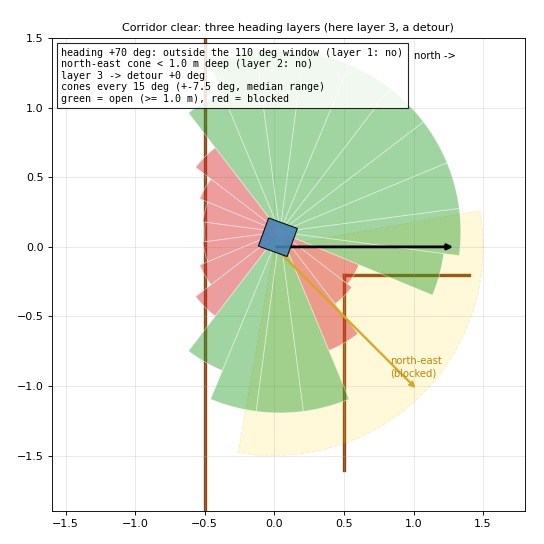
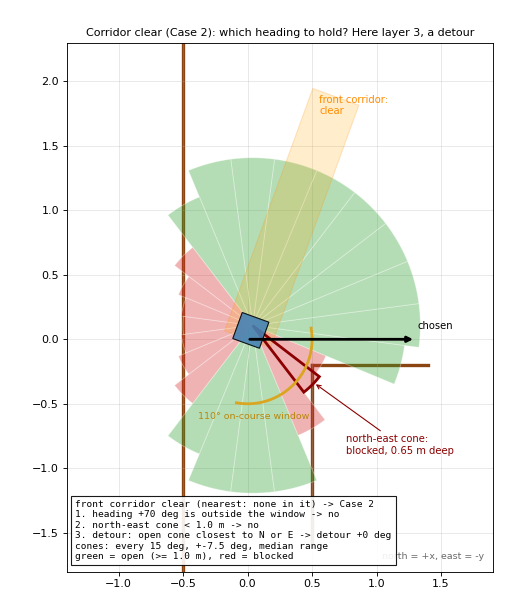
final-cleaning up...

diff --git a/rb2301/src/rb2301_fp/sim_runs/make_sim_runs.py b/rb2301/src/rb2301_fp/sim_runs/make_sim_runs.py
@@ -1,0 +1,153 @@
+"""Run randomised final-project courses in pocket_test and save each run as a GIF named with its result.
+
+Courses where the robot spawns on top of an obstacle are rejected (not counted). Results:
+    COMPLETE   reached the finish line
+    TIMEOUT    still driving when pocket_test's time limit ran out
+    COLLISION  touched an obstacle (the run stops there)
+
+Usage (from rb2301/src/rb2301_fp):
+    python3 sim_runs/make_sim_runs.py               # 20 runs, hand-swung boards, seeds from 0
+    python3 sim_runs/make_sim_runs.py --runs 5 --first-seed 100 --motorised
+"""
+import argparse
+import math
+import os
+import sys
+
+import matplotlib
+matplotlib.use("Agg")
+import matplotlib.pyplot as plt
+from matplotlib.animation import FuncAnimation, PillowWriter
+from matplotlib.collections import LineCollection
+from matplotlib.patches import Polygon
+
+HERE = os.path.dirname(os.path.realpath(__file__))
+sys.path.insert(0, os.path.dirname(HERE))
+import pocket_test as pt
+
+FPS = 15
+EVERY = 6          # draw every 6th control step (0.6 s of robot time per frame)
+DPI = 60
+
+
+def result_of(frames):
+    last = frames[-1]
+    if last.get("spawn_overlap"):
+        return "SPAWN_OVERLAP"
+    if last.get("finished"):
+        return "COMPLETE"
+    if last["collision"]:
+        return "COLLISION"
+    return "TIMEOUT"
+
+
+def state_text(f):
+    c = f["corridor"]
+    if c.get("board_phase"):
+        return "BOARDS " + c["board_phase"].split(" (")[0]
+    if c.get("gap_phase"):
+        return "GATE " + c["gap_phase"]
+    if c.get("locked"):
+        return "obstacle: turn " + ("left" if f["w"] > 0 else "right") + (" BACKING UP" if c.get("backing") else "")
+    return "clear: " + c["goal"] if c.get("goal") else "clear"
+
+
+def save_gif(path, scn, frames, title, result):
+    picks = list(range(0, len(frames), EVERY))
+    if picks[-1] != len(frames) - 1:
+        picks.append(len(frames) - 1)
+    picks += [len(frames) - 1] * (2 * FPS)  # hold the result for 2 s
+
+    fig, ax = plt.subplots(figsize=(6.4, 6.4), dpi=DPI)
+    fig.subplots_adjust(left=0.08, right=0.98, top=0.93, bottom=0.06)
+    pt.draw_world(ax, scn, title)
+    xs, ys = [f["x"] for f in frames], [f["y"] for f in frames]
+    allx = [p[0] for seg in scn["segments"] for p in seg] + xs
+    ally = [p[1] for seg in scn["segments"] for p in seg] + ys
+    cx, cy = (min(allx) + max(allx)) / 2, (min(ally) + max(ally)) / 2
+    half = max(max(allx) - min(allx), max(ally) - min(ally)) / 2 + 0.3
+    ax.set_xlim(cx - half, cx + half)
+    ax.set_ylim(cy - half, cy + half)
+
+    path_line, = ax.plot([], [], "b-", lw=1)
+    scan = ax.scatter([], [], s=2, c="gray")
+    corridor = Polygon(pt.corridor_polygon(0, 0, 0), closed=True, fc="orange", ec="darkorange", alpha=0.2)
+    body = Polygon(pt.footprint(0, 0, 0), closed=True, fc="steelblue", ec="k", alpha=0.9)
+    ax.add_patch(corridor)
+    ax.add_patch(body)
+    moving = LineCollection([], colors="purple", linewidths=3)
+    ax.add_collection(moving)
+    text = ax.text(0.02, 0.98, "", transform=ax.transAxes, va="top", family="monospace", fontsize=9,
+                   bbox=dict(fc="white", alpha=0.85))
+    colour = {"COMPLETE": "green", "TIMEOUT": "darkorange", "COLLISION": "red"}[result]
+
+    def draw(k):
+        i = picks[k]
+        f = frames[i]
+        path_line.set_data(xs[: i + 1], ys[: i + 1])
+        scan.set_offsets(f["world_pts"])
+        corridor.set_xy(pt.corridor_polygon(f["x"], f["y"], f["h"]))
+        body.set_xy(pt.footprint(f["x"], f["y"], f["h"]))
+        moving.set_segments([[p, q] for p, q in f["moving"]])
+        end = i == len(frames) - 1
+        text.set_text(f"t={f['t']:5.1f}s  v={f['v']:+.2f} m/s\n" + (f"RESULT: {result}" if end else state_text(f)))
+        text.get_bbox_patch().set_edgecolor(colour if end else "black")
+        text.get_bbox_patch().set_linewidth(2.5 if end else 1.0)
+        return []
+
+    FuncAnimation(fig, draw, frames=len(picks), blit=False).save(path, writer=PillowWriter(fps=FPS))
+    plt.close(fig)
+
+
+def main():
+    parser = argparse.ArgumentParser(description=__doc__, formatter_class=argparse.RawDescriptionHelpFormatter)
+    parser.add_argument("--runs", type=int, default=20, help="Valid runs to make (default 20)")
+    parser.add_argument("--first-seed", type=int, default=0, help="First course seed to try (default 0)")
+    parser.add_argument("--motorised", action="store_true", help="Full-swing motorised boards instead of hand-swung ones")
+    args = parser.parse_args()
+    pt.SWING = not args.motorised
+    boards = "motorised boards" if args.motorised else "hand-swung boards"
+
+    rows, rejected, seed = [], [], args.first_seed
+    time_limit = pt.randomised_fp_scenario(args.first_seed).get("max_time", pt.MAX_TIME)
+    while len(rows) < args.runs:
+        scn = pt.randomised_fp_scenario(seed)
+        frames = pt.simulate(scn)
+        result = result_of(frames)
+        if result == "SPAWN_OVERLAP":
+            rejected.append(seed)
+            print(f"seed {seed}: spawned on top of an obstacle, rejected", flush=True)
+            seed += 1
+            continue
+        n = len(rows) + 1
+        name = f"run_{n:02d}_seed_{seed}_{result}.gif"
+        travelled = sum(math.hypot(b["x"] - a["x"], b["y"] - a["y"]) for a, b in zip(frames, frames[1:]))
+        gate = next((f["t"] for f in frames if f["corridor"].get("gate_passed") or f["corridor"].get("board_phase")), None)
+        save_gif(os.path.join(HERE, name), scn, frames, f"Run {n} (seed {seed}, {boards})", result)
+        rows.append((n, seed, result, frames[-1]["t"], travelled, gate, name))
+        print(f"run {n:2d}  seed {seed:3d}  {result:9s}  t={frames[-1]['t']:5.1f}s  {travelled:5.1f} m  -> {name}", flush=True)
+        seed += 1
+
+    counts = {r: sum(1 for row in rows if row[2] == r) for r in ("COMPLETE", "TIMEOUT", "COLLISION")}
+    done = [row[3] for row in rows if row[2] == "COMPLETE"]
+    with open(os.path.join(HERE, "README.md"), "w") as f:
+        f.write(f"# pocket_test: {len(rows)} randomised runs\n\n")
+        f.write(f"Randomised final-project courses (same randomisation as `obstacle_modifier.py`) with {boards}, "
+                f"run by the real controller in `pocket_test.py`. Time limit {time_limit:.0f} s per run.\n\n")
+        f.write("| Result | Runs |\n| --- | --- |\n")
+        for r, c in counts.items():
+            f.write(f"| {r} | {c} |\n")
+        if done:
+            f.write(f"\nCompleted runs took {min(done):.0f}–{max(done):.0f} s (mean {sum(done) / len(done):.0f} s).\n")
+        if rejected:
+            f.write(f"\nRejected (robot spawned on top of an obstacle): seeds {', '.join(map(str, rejected))}.\n")
+        f.write("\n| Run | Seed | Result | Time (s) | Distance (m) | Gate passed at (s) | Animation |\n"
+                "| --- | --- | --- | --- | --- | --- | --- |\n")
+        for n, sd, r, t, dist, g, name in rows:
+            f.write(f"| {n} | {sd} | **{r}** | {t:.1f} | {dist:.1f} | {'-' if g is None else f'{g:.1f}'} | [{name}]({name}) |\n")
+        f.write("\nRe-run: `python3 sim_runs/make_sim_runs.py` from `rb2301/src/rb2301_fp` (see the script for options).\n")
+    print(counts, "rejected:", rejected)
+
+
+if __name__ == "__main__":
+    main()

diff --git a/media/fp/make_feature_media.py b/media/fp/make_feature_media.py
@@ -299,35 +299,52 @@ if wanted("heading_layers"):
     segs = pt.arena(5.0, 5.0) + [((0.5, -0.2), (0.5, -1.6)), ((0.5, -0.2), (1.4, -0.2))]
     scn = {"segments": segs}
     x, y, hd = 0.0, 0.0, 70.0
+    h = math.radians(hd)
     msg = scan_at(scn, x, y, hd)
+    pts, rng = oc.scan_to_robot_points(msg)
+    corridor = oc.analyse_front_corridor(pts, rng)
+    assert corridor["nearest"] >= oc.HEADING_HOLD_CLEARANCE, "scene must have a clear corridor (Case 2)"
     target, label = oc.choose_goal_heading(msg, hd, oc.TARGET_HEADING_DEG, oc.NORTH_DEG, {})
-    fig, ax = base_axes(scn, "Corridor clear: three heading layers (here layer 3, a detour)", (-1.6, 1.8, -1.9, 1.5),
-                        size=(6.8, 6.8))
+    fig, ax = base_axes(scn, "Corridor clear (Case 2): which heading to hold? Here layer 3, a detour",
+                        (-1.4, 1.9, -1.8, 2.3), size=(6.6, 7.6))
     world = np.arange(-180.0, 180.0, oc.HEADING_CANDIDATE_STEP_DEG)
     depths = oc._cone_depths(msg, [oc.wrap_deg(w - hd) for w in world])
-    lx, ly = x + oc.LASER_X_OFFSET * math.cos(math.radians(hd)), y + oc.LASER_X_OFFSET * math.sin(math.radians(hd))
     for w, dep in zip(world, depths):
         # One cone per candidate direction (+-HEADING_CONE_HALF_DEG, median range); drawn up to 1.3 m
         col = "tab:green" if dep >= oc.HEADING_OPEN_DEPTH else "tab:red"
-        ax.add_patch(Polygon(pt.cone_polygon(x, y, math.radians(hd), +1, min(dep, 1.3), oc.wrap_deg(w - hd), oc.HEADING_CONE_HALF_DEG),
-                             closed=True, fc=col, ec="white", lw=0.8, alpha=0.45, zorder=2))
+        ax.add_patch(Polygon(pt.cone_polygon(x, y, h, +1, min(dep, 1.3), oc.wrap_deg(w - hd), oc.HEADING_CONE_HALF_DEG),
+                             closed=True, fc=col, ec="white", lw=0.8, alpha=0.35, zorder=2))
+    # The north-east cone: outlined, with its depth
+    ne = int(np.argmin(np.abs([oc.wrap_deg(w - oc.TARGET_HEADING_DEG) for w in world])))
+    ne_poly = pt.cone_polygon(x, y, h, +1, min(depths[ne], 1.3), oc.wrap_deg(world[ne] - hd), oc.HEADING_CONE_HALF_DEG)
+    ax.add_patch(Polygon(ne_poly, closed=True, fill=False, ec="darkred", lw=2.5, zorder=4))
+    tip = ne_poly[len(ne_poly) // 2 + 1]
+    ax.annotate(f"north-east cone:\nblocked, {depths[ne]:.2f} m deep", xy=tip, xytext=(tip[0] + 0.25, tip[1] - 0.55),
+                fontsize=9, color="darkred", arrowprops=dict(arrowstyle="->", color="darkred"), zorder=6)
+    # The 110 deg on-course window around north-east: just an arc, not an area
     t = math.radians(oc.TARGET_HEADING_DEG)
     half = math.radians(oc.HEADING_ON_COURSE_DEG / 2)
-    ax.add_patch(Polygon([(x, y)] + [(x + 1.5 * math.cos(a_), y + 1.5 * math.sin(a_)) for a_ in np.linspace(t - half, t + half, 20)],
-                         closed=True, fc="gold", alpha=0.15, ec="goldenrod", ls="--", zorder=1))
-    ax.annotate("", xy=(x + 1.45 * math.cos(t), y + 1.45 * math.sin(t)), xytext=(x, y),
-                arrowprops=dict(arrowstyle="->", color="goldenrod", lw=2))
-    ax.text(x + 1.1 * math.cos(t) + 0.05, y + 1.1 * math.sin(t) - 0.15, "north-east\n(blocked)", color="darkgoldenrod", fontsize=9)
+    arc = np.linspace(t - half, t + half, 30)
+    ax.plot(x + 0.5 * np.cos(arc), y + 0.5 * np.sin(arc), color="goldenrod", lw=2.5, zorder=4)
+    ax.text(x + 0.05, y - 0.62, "110° on-course window", color="darkgoldenrod", fontsize=8.5, ha="center", zorder=6)
+    # The front corridor, along the robot's heading: clear, so Case 2 applies
+    draw_robot(ax, x, y, h, corridor=True)
+    cend = pt.corridor_polygon(x, y, h)[1]
+    ax.text(cend[0] + 0.05, cend[1] - 0.05, "front corridor:\nclear", fontsize=9, color="darkorange", va="top", zorder=6)
     ta = math.radians(target)
     ax.annotate("", xy=(x + 1.3 * math.cos(ta), y + 1.3 * math.sin(ta)), xytext=(x, y),
-                arrowprops=dict(arrowstyle="-|>", color="k", lw=2.5))
-    draw_robot(ax, x, y, math.radians(hd), corridor=False)
-    caption(ax, f"heading {hd:+.0f} deg: outside the 110 deg window (layer 1: no)\n"
-                f"north-east cone < {oc.HEADING_OPEN_DEPTH:.1f} m deep (layer 2: no)\n"
-                f"layer 3 -> {label}\n"
-                f"cones every {oc.HEADING_CANDIDATE_STEP_DEG:.0f} deg (+-{oc.HEADING_CONE_HALF_DEG} deg, median range)\n"
-                f"green = open (>= {oc.HEADING_OPEN_DEPTH:.1f} m), red = blocked")
-    ax.text(1.0, 1.35, "north ->", fontsize=9)
+                arrowprops=dict(arrowstyle="-|>", color="k", lw=2.5), zorder=7)
+    ax.text(x + 1.32 * math.cos(ta), y + 1.32 * math.sin(ta) + 0.08, "chosen", fontsize=9, zorder=7)
+    near_text = "none in it" if math.isinf(corridor["nearest"]) else f"{corridor['nearest']:.2f} m"
+    ax.text(0.98, 0.02, "north = +x, east = -y", transform=ax.transAxes, ha="right", va="bottom", fontsize=8.5, color="dimgray")
+    ax.text(0.02, 0.02,
+            f"front corridor clear (nearest: {near_text}) -> Case 2\n"
+            f"1. heading {hd:+.0f} deg is outside the window -> no\n"
+            f"2. north-east cone < {oc.HEADING_OPEN_DEPTH:.1f} m -> no\n"
+            f"3. detour: open cone closest to N or E -> {label}\n"
+            f"cones: every {oc.HEADING_CANDIDATE_STEP_DEG:.0f} deg, +-{oc.HEADING_CONE_HALF_DEG} deg, median range\n"
+            f"green = open (>= {oc.HEADING_OPEN_DEPTH:.1f} m), red = blocked",
+            transform=ax.transAxes, va="bottom", family="monospace", fontsize=8.5, bbox=dict(fc="white", alpha=0.9), zorder=10)
     save_png(fig, "heading_layers")
 
 # ---------------------------------------------------------------- 8. gate detection: the closed-line check

diff --git a/rb2301/src/rb2301_fp/sim_runs/README.md b/rb2301/src/rb2301_fp/sim_runs/README.md
@@ -1,0 +1,38 @@
+# pocket_test: 20 randomised runs
+
+Randomised final-project courses (same randomisation as `obstacle_modifier.py`) with hand-swung boards, run by the real controller in `pocket_test.py`. Time limit 180 s per run.
+
+| Result | Runs |
+| --- | --- |
+| COMPLETE | 15 |
+| TIMEOUT | 5 |
+| COLLISION | 0 |
+
+Completed runs took 48–167 s (mean 65 s).
+
+Rejected (robot spawned on top of an obstacle): seeds 10, 12, 15, 20.
+
+| Run | Seed | Result | Time (s) | Distance (m) | Gate passed at (s) | Animation |
+| --- | --- | --- | --- | --- | --- | --- |
+| 1 | 0 | **TIMEOUT** | 179.9 | 0.9 | - | [run_01_seed_0_TIMEOUT.gif](run_01_seed_0_TIMEOUT.gif) |
+| 2 | 1 | **TIMEOUT** | 179.9 | 22.0 | 165.5 | [run_02_seed_1_TIMEOUT.gif](run_02_seed_1_TIMEOUT.gif) |
+| 3 | 2 | **COMPLETE** | 50.9 | 7.4 | 31.6 | [run_03_seed_2_COMPLETE.gif](run_03_seed_2_COMPLETE.gif) |
+| 4 | 3 | **COMPLETE** | 166.9 | 8.9 | 126.3 | [run_04_seed_3_COMPLETE.gif](run_04_seed_3_COMPLETE.gif) |
+| 5 | 4 | **COMPLETE** | 62.8 | 8.0 | 41.3 | [run_05_seed_4_COMPLETE.gif](run_05_seed_4_COMPLETE.gif) |
+| 6 | 5 | **COMPLETE** | 67.5 | 7.6 | 26.7 | [run_06_seed_5_COMPLETE.gif](run_06_seed_5_COMPLETE.gif) |
+| 7 | 6 | **COMPLETE** | 60.2 | 7.0 | 38.9 | [run_07_seed_6_COMPLETE.gif](run_07_seed_6_COMPLETE.gif) |
+| 8 | 7 | **TIMEOUT** | 179.9 | 12.8 | 7.5 | [run_08_seed_7_TIMEOUT.gif](run_08_seed_7_TIMEOUT.gif) |
+| 9 | 8 | **TIMEOUT** | 179.9 | 8.8 | - | [run_09_seed_8_TIMEOUT.gif](run_09_seed_8_TIMEOUT.gif) |
+| 10 | 9 | **COMPLETE** | 48.0 | 6.6 | 27.0 | [run_10_seed_9_COMPLETE.gif](run_10_seed_9_COMPLETE.gif) |
+| 11 | 11 | **COMPLETE** | 57.1 | 8.1 | 9.7 | [run_11_seed_11_COMPLETE.gif](run_11_seed_11_COMPLETE.gif) |
+| 12 | 13 | **COMPLETE** | 51.1 | 6.6 | 29.6 | [run_12_seed_13_COMPLETE.gif](run_12_seed_13_COMPLETE.gif) |
+| 13 | 14 | **COMPLETE** | 58.7 | 7.0 | 37.3 | [run_13_seed_14_COMPLETE.gif](run_13_seed_14_COMPLETE.gif) |
+| 14 | 16 | **COMPLETE** | 48.5 | 7.3 | 25.3 | [run_14_seed_16_COMPLETE.gif](run_14_seed_16_COMPLETE.gif) |
+| 15 | 17 | **TIMEOUT** | 179.9 | 8.9 | - | [run_15_seed_17_TIMEOUT.gif](run_15_seed_17_TIMEOUT.gif) |
+| 16 | 18 | **COMPLETE** | 68.0 | 7.2 | 46.9 | [run_16_seed_18_COMPLETE.gif](run_16_seed_18_COMPLETE.gif) |
+| 17 | 19 | **COMPLETE** | 74.2 | 9.9 | 51.9 | [run_17_seed_19_COMPLETE.gif](run_17_seed_19_COMPLETE.gif) |
+| 18 | 21 | **COMPLETE** | 67.1 | 8.1 | 47.8 | [run_18_seed_21_COMPLETE.gif](run_18_seed_21_COMPLETE.gif) |
+| 19 | 22 | **COMPLETE** | 48.9 | 7.3 | 25.3 | [run_19_seed_22_COMPLETE.gif](run_19_seed_22_COMPLETE.gif) |
+| 20 | 23 | **COMPLETE** | 50.9 | 7.2 | 28.2 | [run_20_seed_23_COMPLETE.gif](run_20_seed_23_COMPLETE.gif) |
+
+Re-run: `python3 sim_runs/make_sim_runs.py` from `rb2301/src/rb2301_fp` (see the script for options).

diff --git a/FP.md b/FP.md
@@ -42,6 +42,7 @@ These runs use the exact controller code in pocket_test (`media/fp/make_gifs.py`
 | pocket_test (2-D, no ROS) | From `src/rb2301_fp`: `python3 pocket_test.py` runs every scenario. Name one to run only it (`pocket`, `zigzag`, ...). `random --seed N` runs a randomised course; `--swing` makes the boards hand-swung (decaying); `--real` uses the real robot's speed caps and 720 beams; `--headless --trials 20` gives a success rate. |
 | Real robot | On the laptop: `./rsync_fp.sh <robot number>` copies the package to `~/Downloads/rb2301_fp_13` on the robot. On the robot: build with `colb`, start `basecontrol`, `vrpn` and `rplidar`, then `./fp.sh`. |
 | Pose check | `./fp.sh --calibrate` prints the OptiTrack and maze poses and never drives. |
+| Recorded runs | `python3 sim_runs/make_sim_runs.py` from `src/rb2301_fp`: 20 random courses saved as GIFs marked COMPLETE / TIMEOUT, with a summary in [sim_runs/README.md](rb2301/src/rb2301_fp/sim_runs/README.md) (latest: 15 complete, 5 timeouts, 0 collisions). |
 | LiDAR blind zone | `./blindzone_check.sh`: an interactive tool that measures the closest distance the LiDAR can still see. |
 
 ## Overview
@@ -232,7 +233,7 @@ With nothing within 0.8 m and no lock, the robot steers toward a goal heading ch
 
 ![Heading layers](media/fp/features/heading_layers.png)
 
-*Facing +70° (outside the gold 110° window) with north-east blocked, so layers 1 and 2 fail. Each candidate direction is a narrow cone measured by its median range, one every 15°. Of the open cones (green), the one closest to North or East is chosen (black arrow).*
+*The front corridor (orange, along the robot's heading) is clear, so the robot is in Case 2 and picks a heading to hold. Each candidate direction is a narrow cone measured by its median range, one every 15° (green = open, red = blocked). Layer 1 fails because the heading (+70°) is outside the 110° window around north-east (gold arc); layer 2 fails because the north-east cone (dark red outline) is blocked by the wall. Layer 3 picks the open cone closest to North or East: due north (black arrow).*
 
 
 **Why three layers.** Steering straight to north-east all the time turned the robot into walls in narrow places. Layer 1 lets it keep driving along a corridor that already goes roughly the right way. Layer 3 gets it out when north-east is blocked by a wall, instead of pushing into it.

diff --git a/HOW_TO_RUN.md b/HOW_TO_RUN.md
@@ -98,3 +98,5 @@ python3 pocket_test.py random --seed 0 --trials 20 --headless   # success rate o
 **Animation controls.** A slider and Play/Pause, Rewind, Stop, step and speed buttons. Keys: `space` play/pause, `←`/`→` step, `r` rewind, `s` stop. Close the window to move on to the next scenario.
 
 **Result line.** Each run prints `FINISHED in Ns`, `COLLISION`, `STUCK` or `ok`, with the distance travelled and the first turn.
+
+**Batch of recorded runs.** `python3 sim_runs/make_sim_runs.py` (from `src/rb2301_fp`) runs 20 random courses with hand-swung boards, skipping courses where the robot spawns on an obstacle. It saves each run as a GIF named with its result (`COMPLETE`, `TIMEOUT` or `COLLISION`), plus a summary table, in [`rb2301/src/rb2301_fp/sim_runs/`](rb2301/src/rb2301_fp/sim_runs/README.md).
